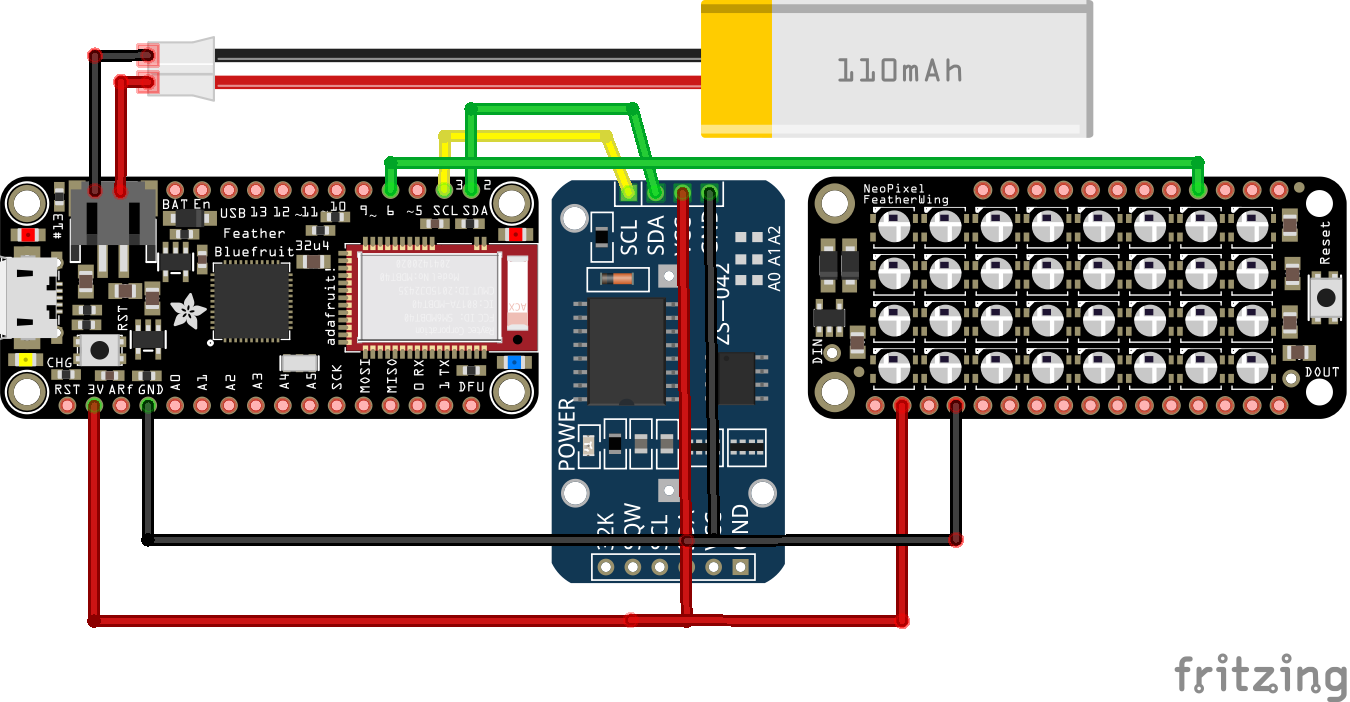
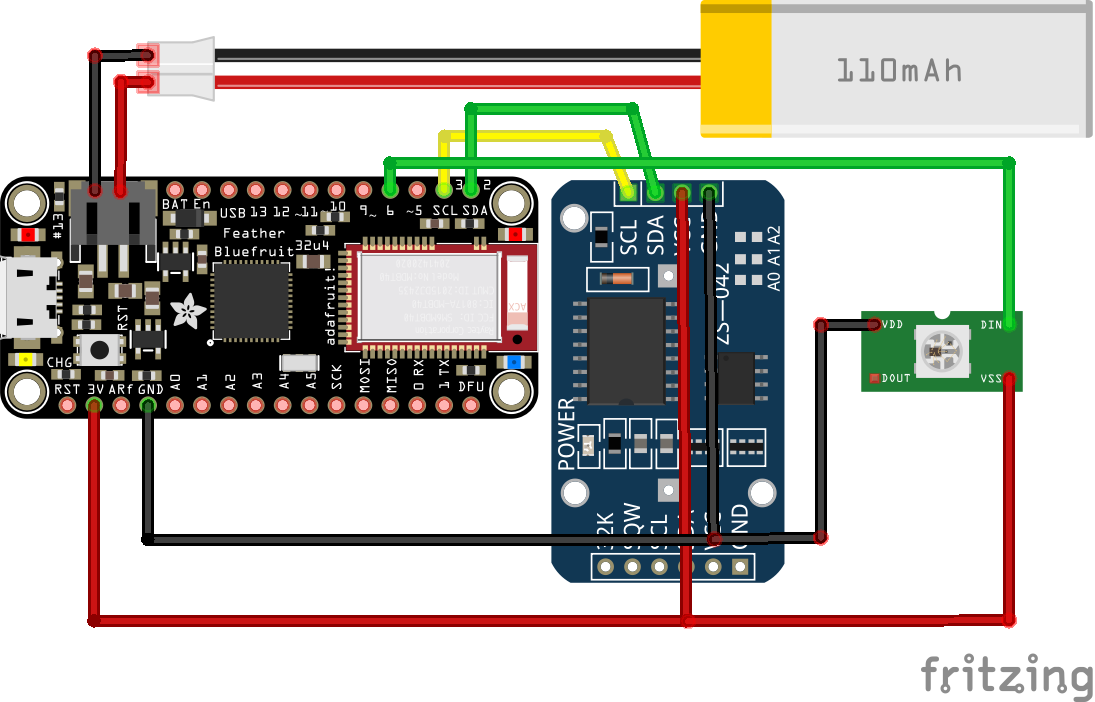
Update docs

diff --git a/README.md b/README.md
@@ -7,12 +7,15 @@ A Time Hacker Clock is a device based on the Time Hacker Method (THM). THM combi
 
 * Bluetooth BLE, controllable via mobile phone
 * Realtime clock
-* Support for various NeoPixel lighting modules
+* Support for various WS2812 based LEDS and the popular NeoPixel lighting modules
 
 ## Design
 
-![](./fritzing/ArdunioTimeHackerClock_bb.png)
+<img src="./fritzing/ArdunioTimeHackerClock_bb.png" width="60%" />
 
+I tested the design with various NeoPixels from Adafruit and they all worked well. I ultimately settled on a single WS2812B module which is lower costs and uses less power than an array of LEDS.
+
+The realtime clock I chose was the Adafruit DS3231 Precision RTC Breakout so it's not exactly the one shown on the diagram above.
 
 ## Software
 Make sure you have a recent version of the [Ardunio IDE](https://www.arduino.cc/en/Main/Software) installed.
@@ -92,16 +95,20 @@ ver
 ## Parts
 
 * [Adafruit Feather 32u4 Bluefruit LE](https://www.adafruit.com/product/2829)
-* ALITOVE [WS2812B LED](http://a.co/d/adx7A64) Matrix
-* Adafruit NeoPixels. Works with RGB/RGBW strings and rings:
-  * [NeoPixel 5050 RGB LED](https://www.adafruit.com/product/1655 )
-  * [NeoPixel Stick - 8 x 5050 RGB LED](https://www.adafruit.com/product/1426)
-  * [NeoPixel Ring - 12 x 5050 RGB LED](https://www.adafruit.com/product/1643)
-  * [NeoPixel Ring - 12 x 5050 RGBW LED](https://www.adafruit.com/product/2853)
-  * [NeoPixel Ring - 16 x 5050 RGB LED](https://www.adafruit.com/product/1463)
-  * [NeoPixel FeatherWing - 4x8 RGB LED](https://www.adafruit.com/product/2945)
 * [Adafruit DS3231 Precision RTC Breakout](https://www.adafruit.com/product/3013)
-* Enclosures:
-  * [Eightwood Aluminum Enclosure Electronic Project Box DIY Black -2.95" x 2.75" x 0.94](http://a.co/d/7EzhH0J)
-  * [Belleman Plastic Box (WCAH2855) 85 x 55 x 30 mm](https://www.velleman.eu/products/view/?id=17840)
-  * https://www.allelectronics.com/item/1551-fbk/pocket-size-project-box/1.html
+* AlitoveE [WS2812B LED](http://a.co/d/adx7A64) Matrix
+  * Alternative lights: Adafruit NeoPixels.
+    * [NeoPixel 5050 RGB LED](https://www.adafruit.com/product/1655 )
+    * [NeoPixel Stick - 8 x 5050 RGB LED](https://www.adafruit.com/product/1426)
+    * [NeoPixel Ring - 12 x 5050 RGB LED](https://www.adafruit.com/product/1643)
+    * [NeoPixel Ring - 12 x 5050 RGBW LED](https://www.adafruit.com/product/2853)
+    * [NeoPixel Ring - 16 x 5050 RGB LED](https://www.adafruit.com/product/1463)
+    * [NeoPixel FeatherWing - 4x8 RGB LED](https://www.adafruit.com/product/2945)
+* Enclosure:
+  *
+  * Others:
+    * [Eightwood Aluminum Enclosure Electronic Project Box DIY Black -2.95" x 2.75" x 0.94](http://a.co/d/7EzhH0J)
+    * [Belleman Plastic Box (WCAH2855) 85 x 55 x 30 mm](https://www.velleman.eu/products/view/?id=17840)
+    * https://www.allelectronics.com/item/1551-fbk/pocket-size-project-box/1.html
+* Battery power:
+  * Optional [Lithium Ion Polymer Battery - 3.7v 100mAh - 2500mAh](https://www.adafruit.com)
